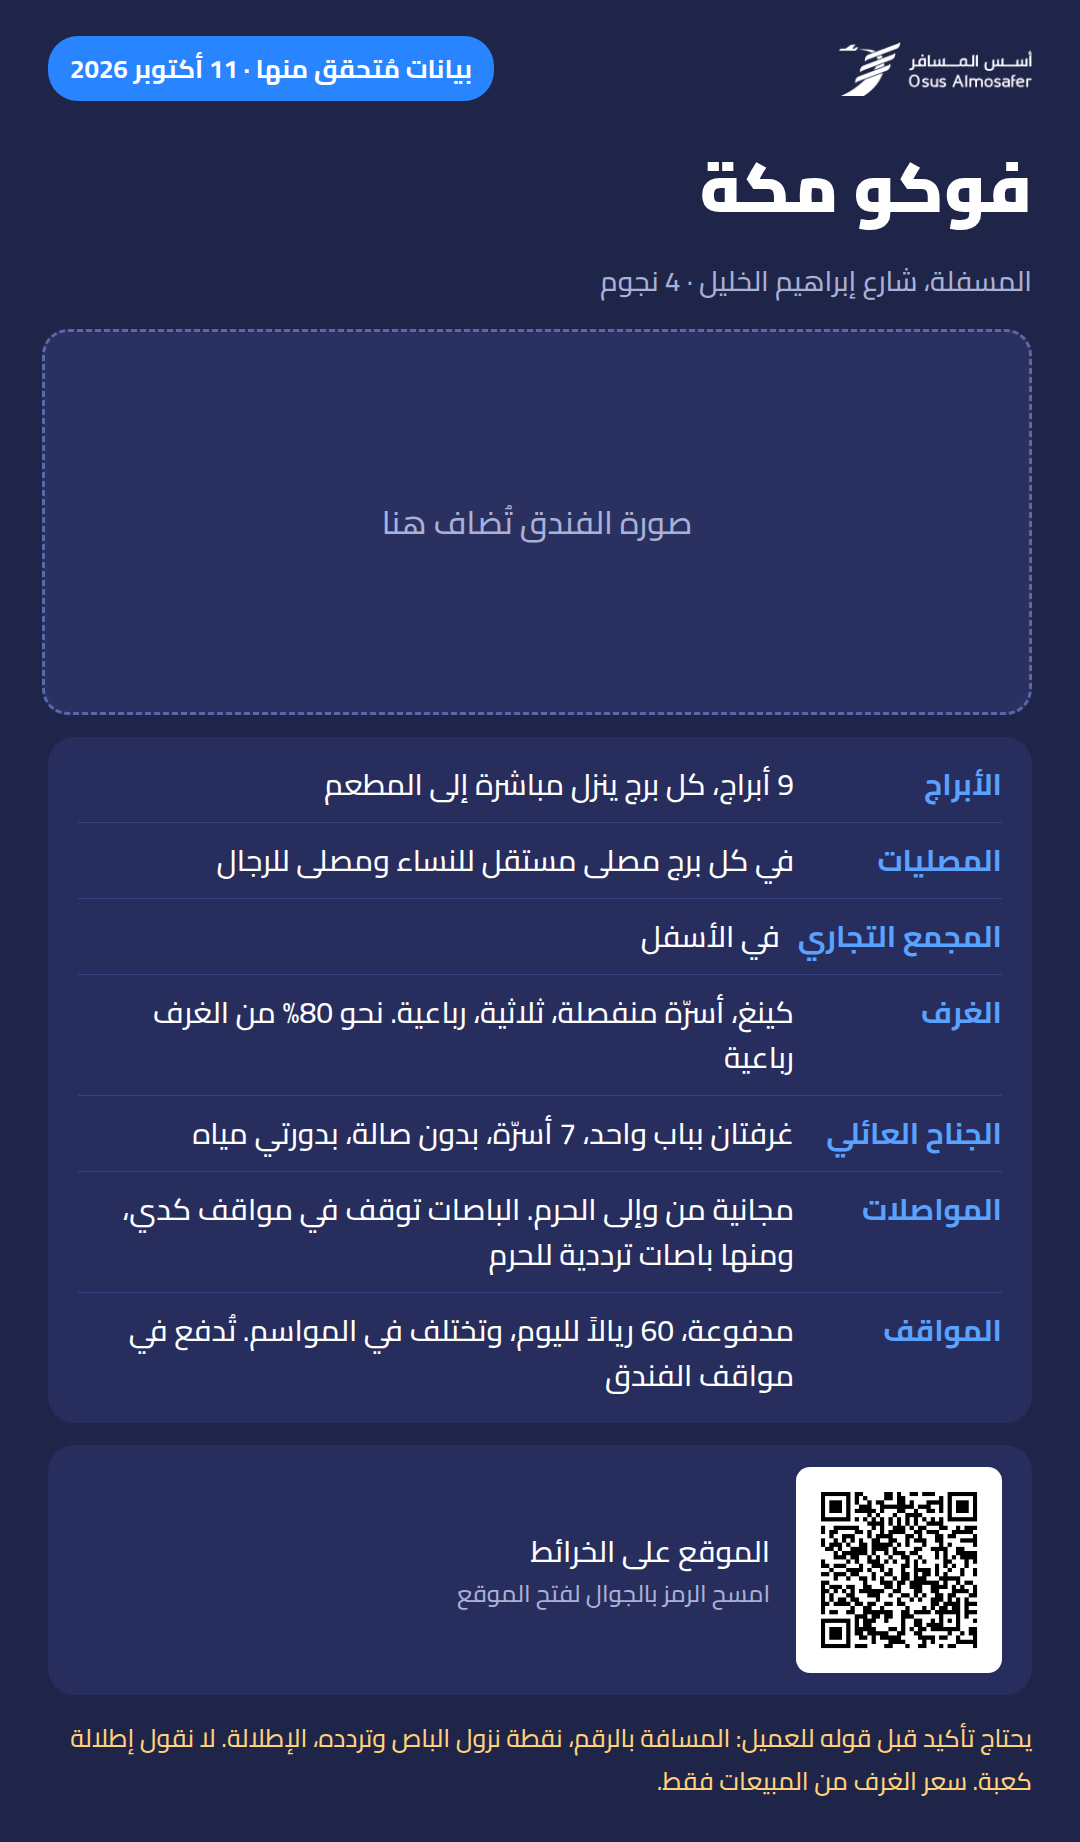
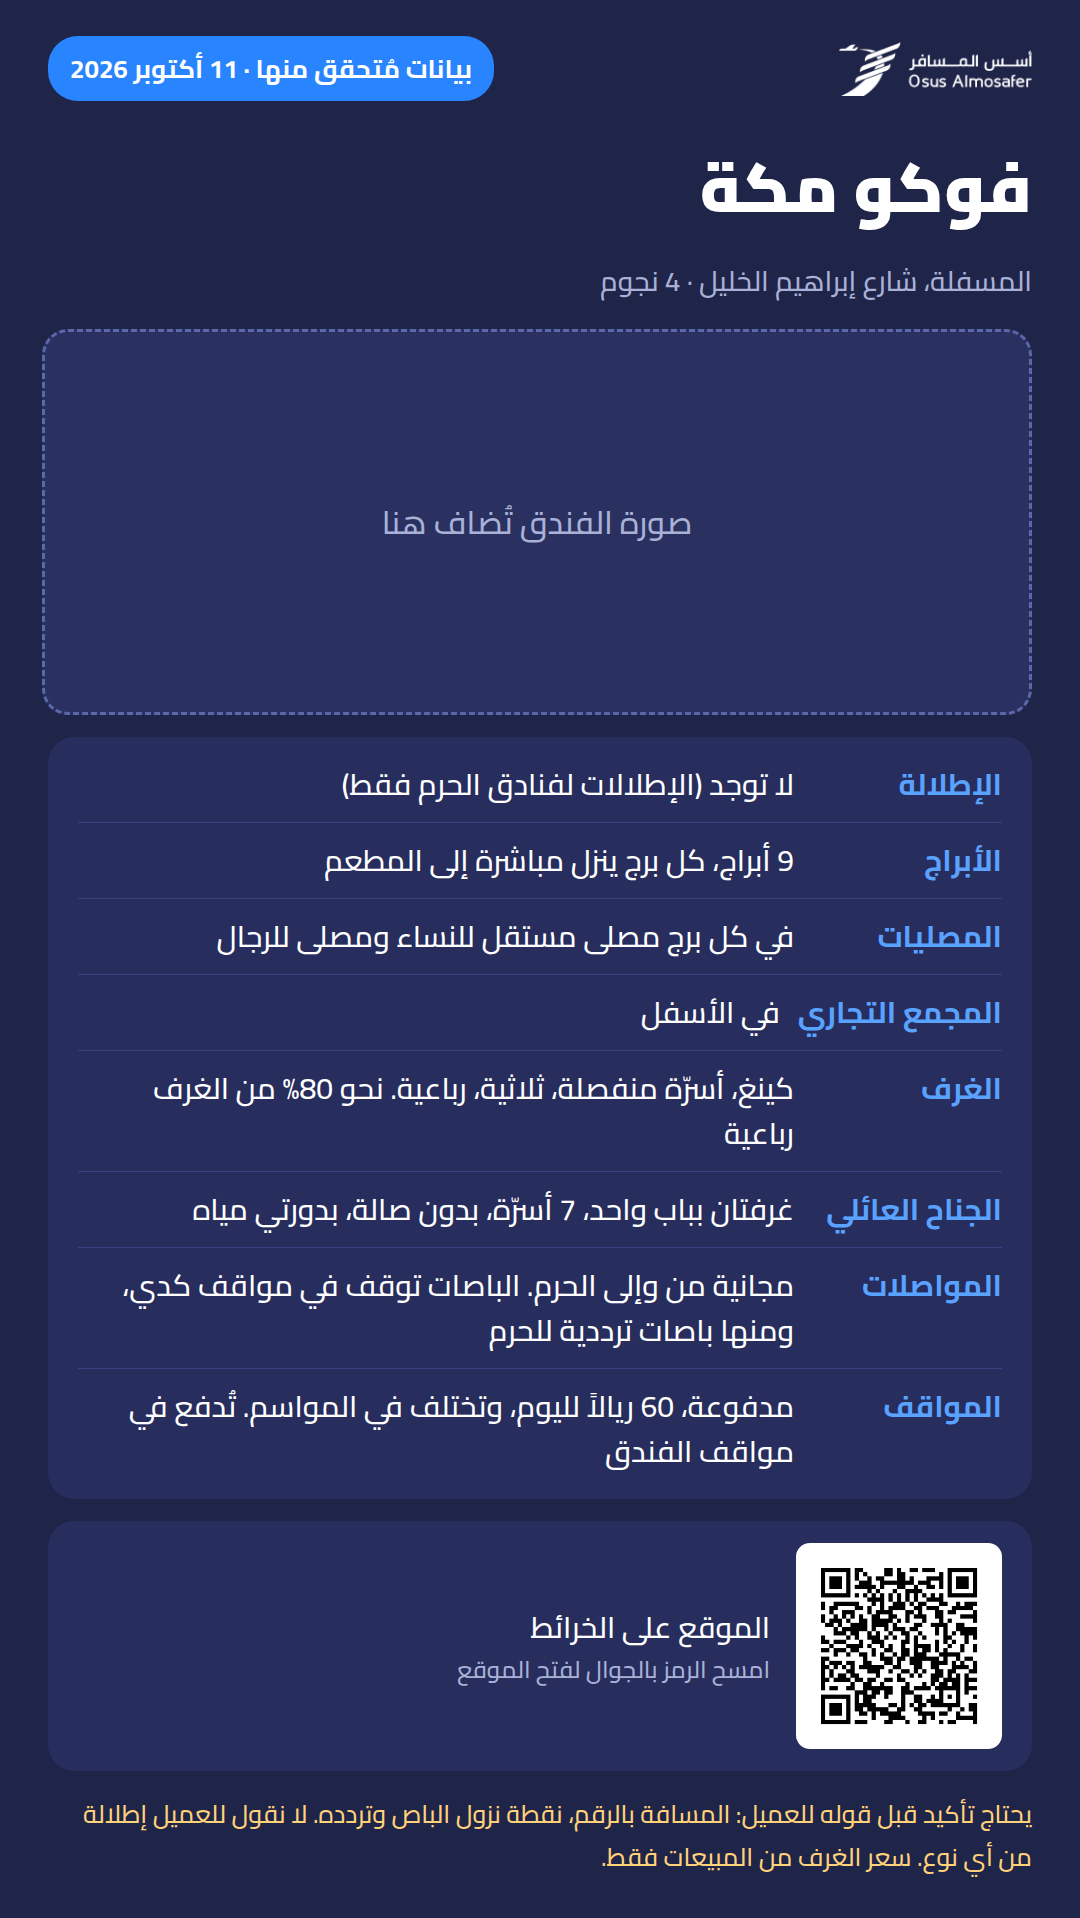
Voco: no view (Haram hotels only), location confirmed
Claude-Session: https://claude.ai/code/session_014VtwQ8cvWScd6Ab9s2JkGB

diff --git a/asas-hotel-knowledge/hotels/ROSTER.md b/asas-hotel-knowledge/hotels/ROSTER.md
@@ -7,7 +7,7 @@
 | # | الفندق | المنطقة (مبدئية) | الحالة |
 |---|---|---|---|
 | 1 | أجنحة هيلتون جبل عمر | جبل عمر | تم (7 أكتوبر 2026، الموقع والمواقف والاستقبال مؤكدة من المالك) |
-| 2 | فوكو مكة (Voco Makkah) | المسفلة، شارع إبراهيم الخليل (خارج المناطق الأربع) | تم ومُتحقق منه (11 أكتوبر 2026، من موظف عبر المالك: الغرف والأبراج والمصليات والمواصلات والمواقف. ينقص: المسافة والإطلالة ونقطة نزول الباص. صفحة المرجع بانتظار صورة الفندق من المالك) |
+| 2 | فوكو مكة (Voco Makkah) | المسفلة، شارع إبراهيم الخليل (خارج المناطق الأربع) | تم ومُتحقق منه (11 أكتوبر 2026، من موظف عبر المالك: الغرف والأبراج والمصليات والمواصلات والمواقف. الإطلالة: لا توجد، والموقع مؤكد. ينقص: المسافة ونقطة نزول الباص. صفحة المرجع بانتظار صورة الفندق من المالك) |
 | 3 | العنوان (Address Jabal Omar) | جبل عمر | تم (9 أكتوبر 2026، ثقة متوسطة، إطلالة الكعبة والمسافة والمواقف تحتاج تأكيد) |
 | 4 | شيراتون جبل الكعبة | جبل الكعبة | جزئي (8 أكتوبر 2026: الأجنحة مؤكدة من المالك، الباقي لاحقاً) |
 | 5 | كونراد جبل عمر | جبل عمر | تم (11 أكتوبر 2026، ثقة منخفضة إلى متوسطة، بانتظار تحقق موظف: المسافة والإطلالة والمواقف والمصلى) |

diff --git a/asas-hotel-knowledge/hotels/المسفلة-فوكو-مكة.md b/asas-hotel-knowledge/hotels/المسفلة-فوكو-مكة.md
@@ -11,7 +11,9 @@
 - **الجناح العائلي:** غرفتان بباب واحد، 7 أسرّة، بدون صالة، بدورتي مياه.
 - **المواصلات:** مجانية من وإلى الحرم. الباصات توقف في مواقف كدي، ومنها باصات ترددية للحرم.
 - **المواقف:** مدفوعة، 60 ريالاً لليوم، وتختلف في المواسم، وتُدفع في مواقف الفندق. (التضارب السابق «مجاناً» غير صحيح.)
-- **ما زال يحتاج تأكيد:** المسافة المقاسة بالمشي، نقطة نزول الباص بدقة وتردده، الإطلالة، سعة الجناح (7 أسرّة)، المرافق الأخرى.
+- **الموقع:** المسفلة، شارع إبراهيم الخليل (مؤكد).
+- **الإطلالة: لا توجد.** الإطلالات فقط لفنادق الحرم، وفوكو ليس منها. لا يُذكر للعميل إطلالة على الحرم أو الكعبة أو غيرها.
+- **ما زال يحتاج تأكيد:** المسافة المقاسة بالمشي، نقطة نزول الباص بدقة وتردده، سعة الجناح (7 أسرّة)، المرافق الأخرى.
 
 > ما تحت هذا الخط من البحث (8 أكتوبر 2026) ويُقدَّم عليه القسم أعلاه عند التعارض.
 
